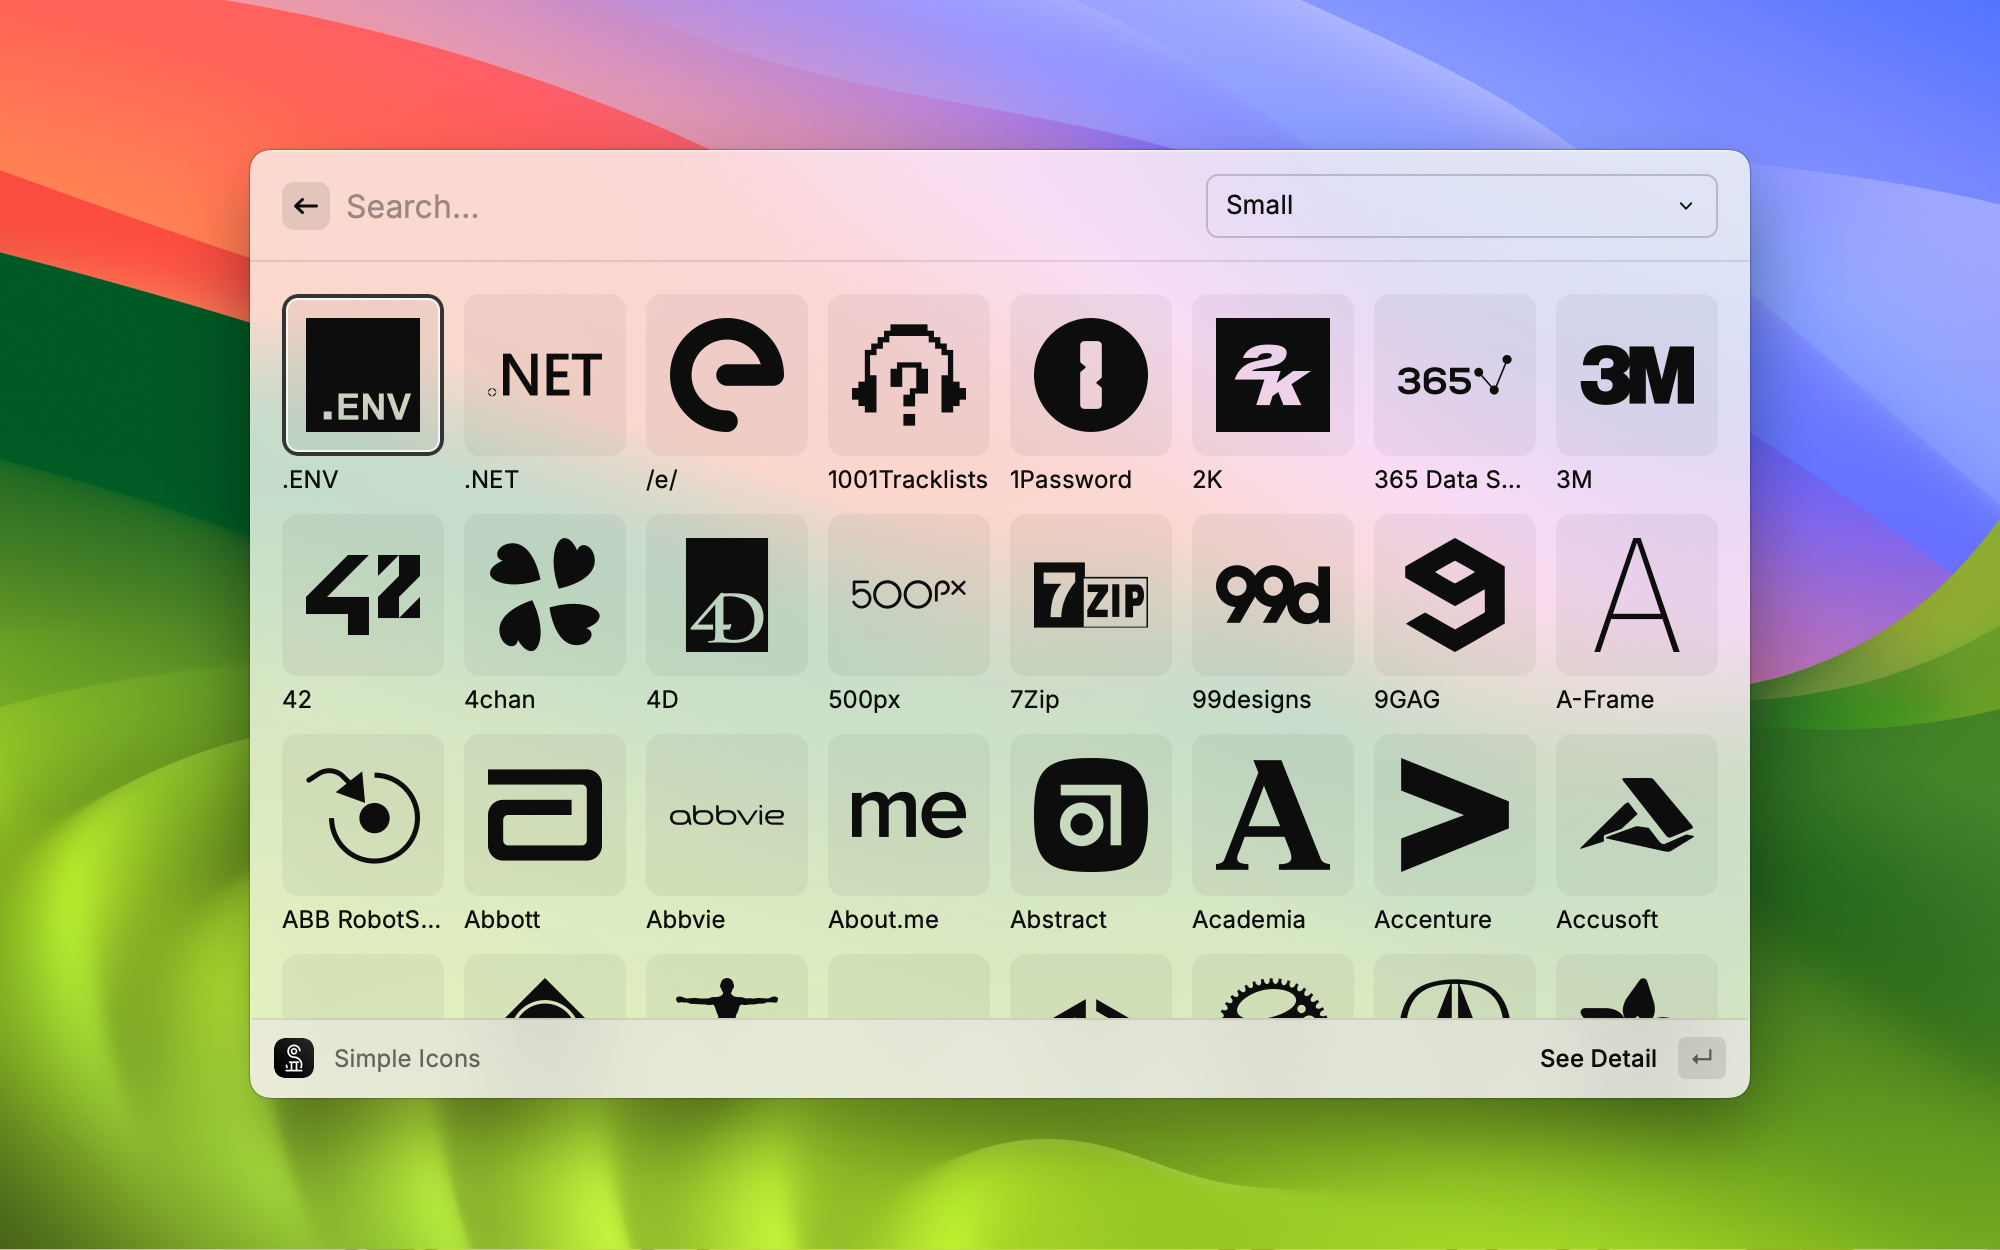
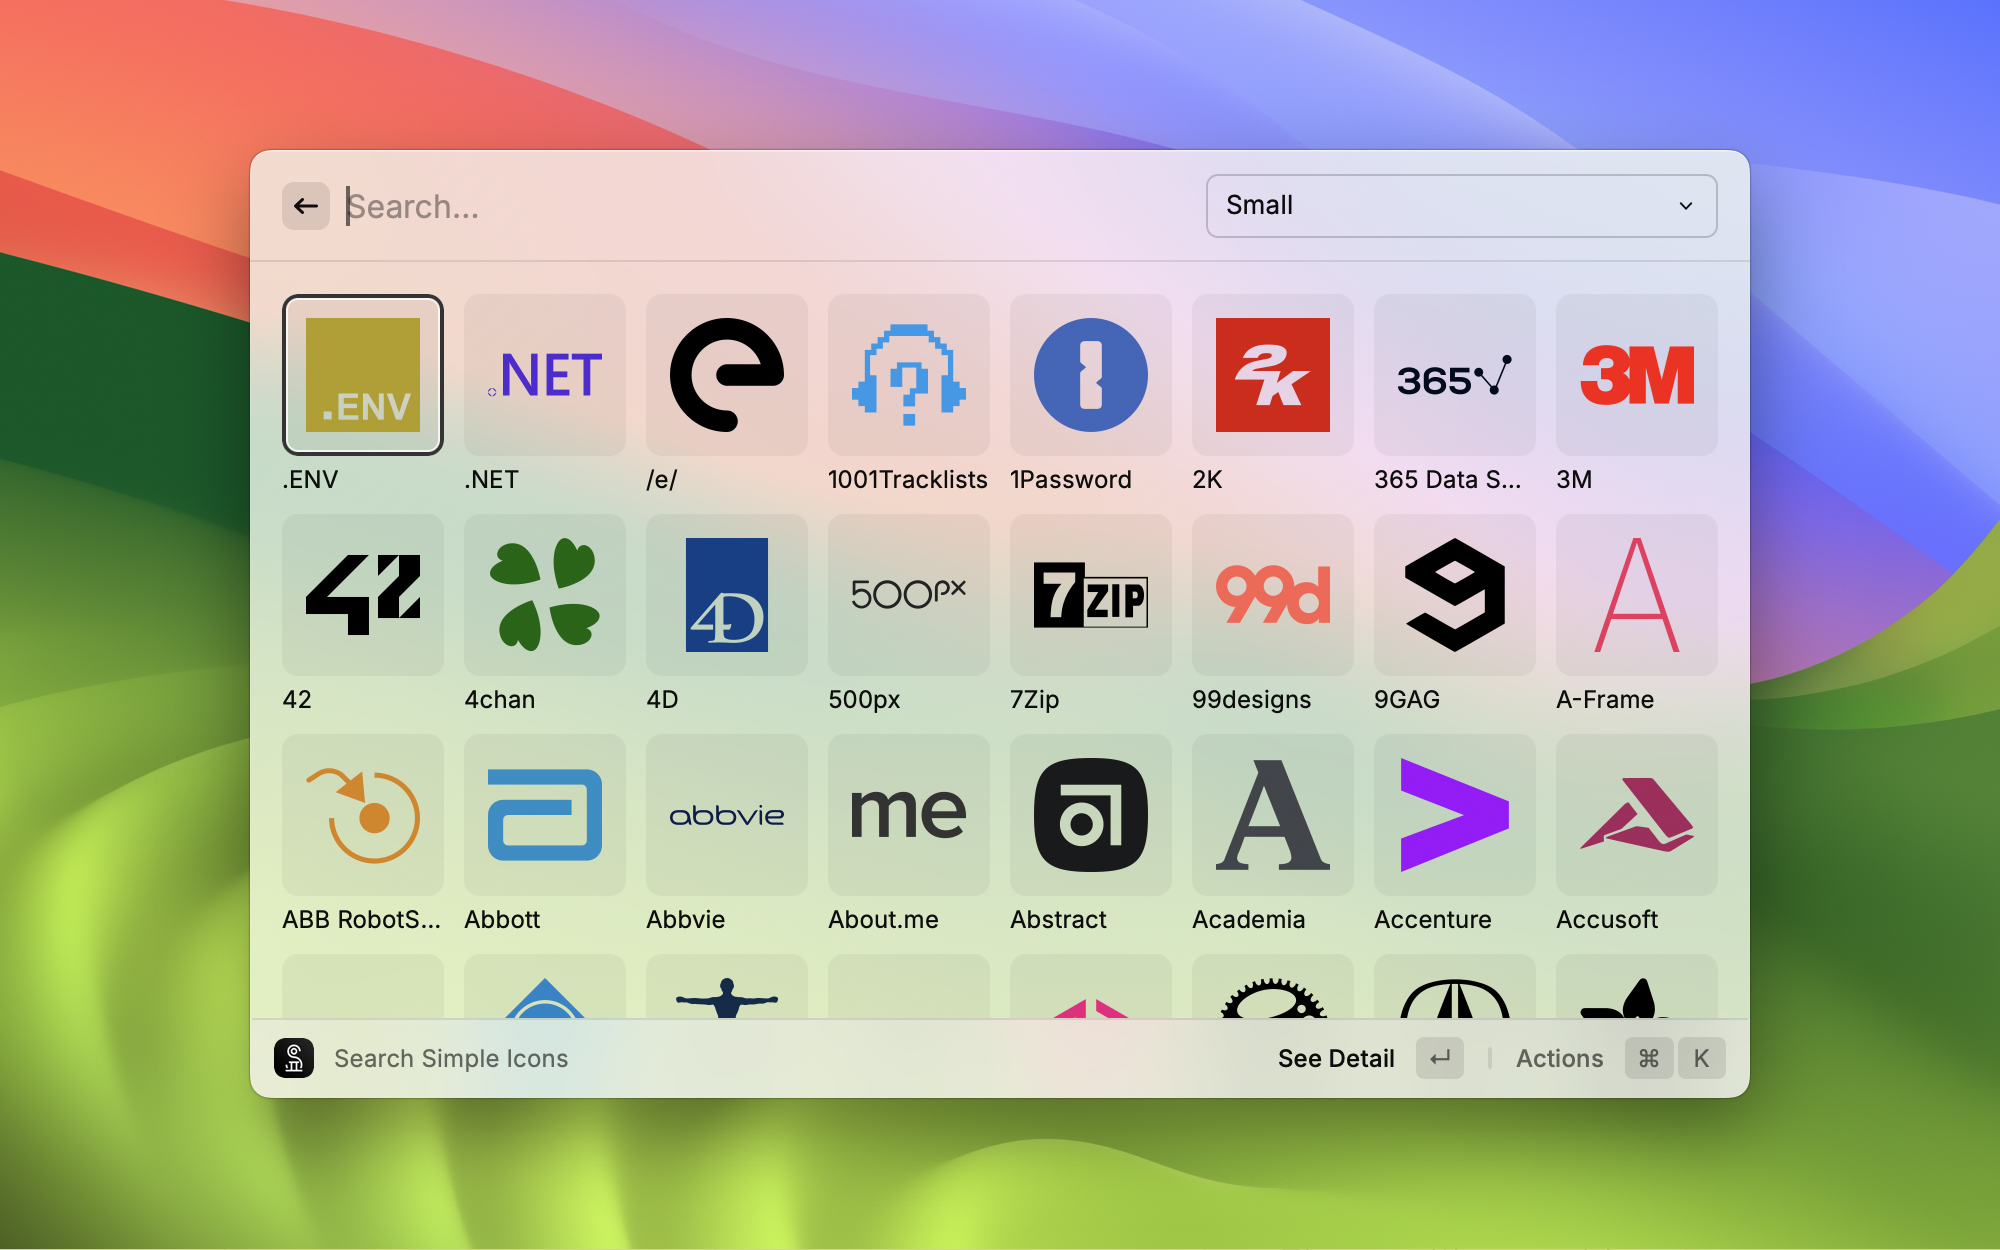
Update screenshots

diff --git a/CHANGELOG.md b/CHANGELOG.md
@@ -1,6 +1,6 @@
 # Simple Icons Changelog
 
-## [Improvements]
+## [Improvements] - 2024-03-07
 
 - Apply brand colors to grid view
 - Use Raycast built-in tint color API for icons in detail page
